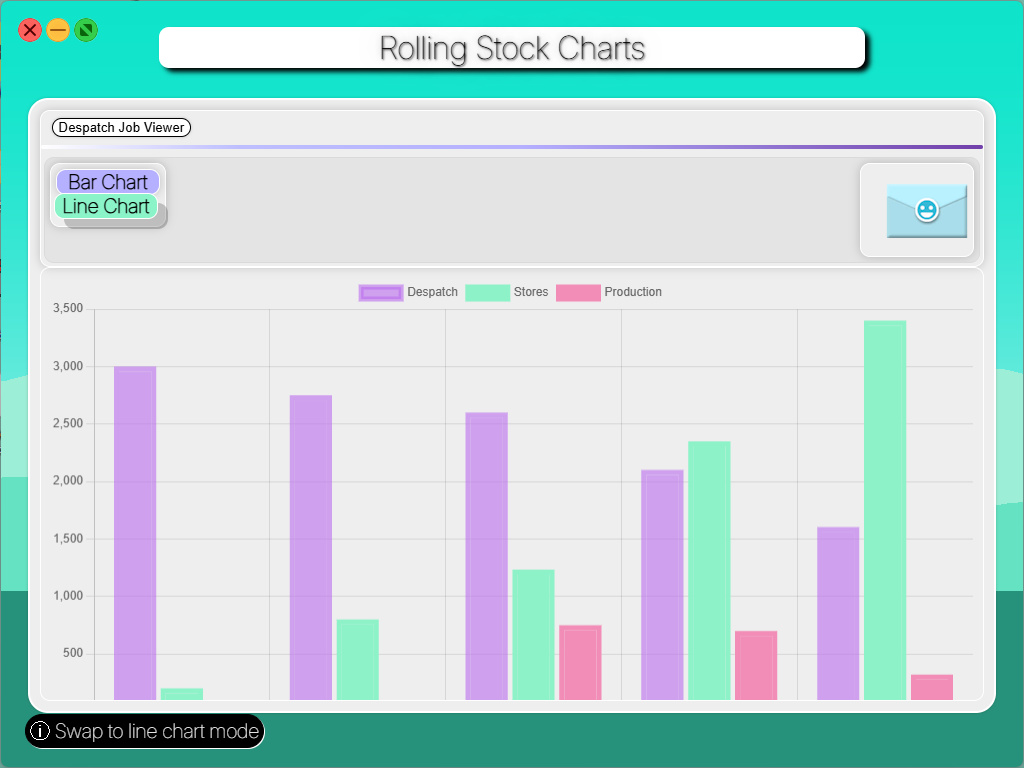
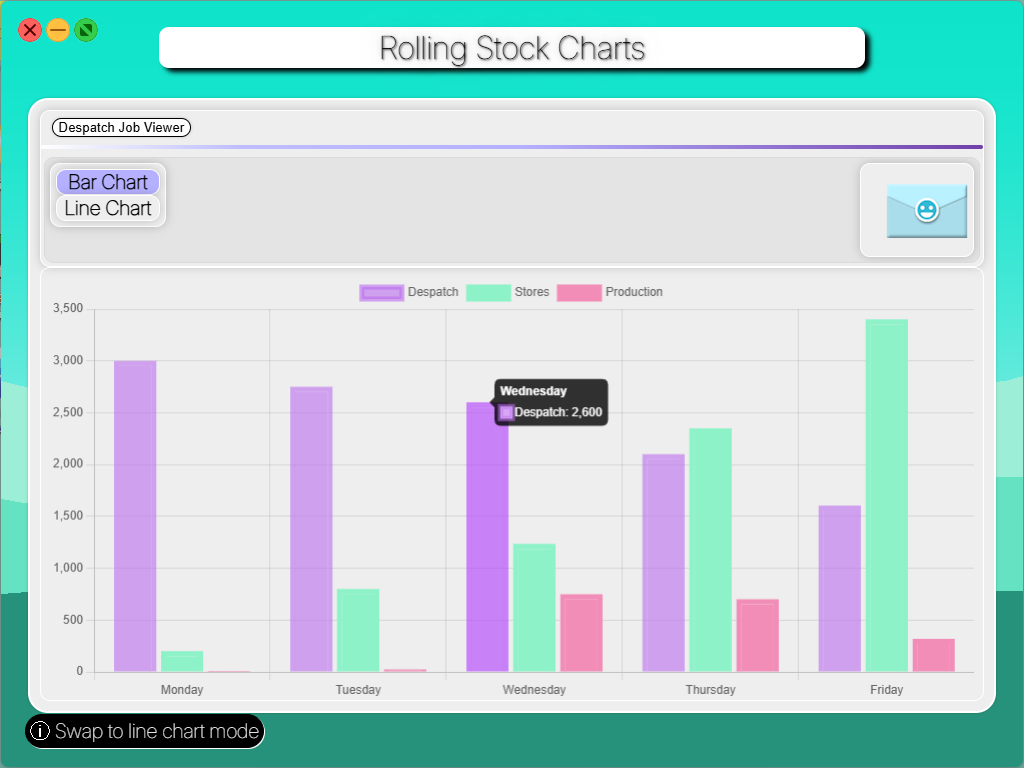
//Update

diff --git a/preload.js b/preload.js
@@ -597,8 +597,7 @@ document.querySelectorAll(".chartDisplayButton").forEach(function(elem) {
 chartZone = document.getElementById('theCharts');
   const amazingChart = new Chart(chartZone, {
     type: 'bar',
-    maintainAspectRatio: false,
-    aspectRatio: 2,
+    barPercentage: 1,
     data: {
       labels: ['Monday', 'Tuesday', 'Wednesday', 'Thursday', 'Friday'],
       datasets: [{
@@ -668,7 +667,9 @@ chartZone = document.getElementById('theCharts');
         y: {
           beginAtZero: true
         }
-      }
+      },
+      maintainAspectRatio: false,
+          responsive: true,
     }
   });
   helper.addEventListener("click", () =>{
@@ -676,7 +677,6 @@ chartZone = document.getElementById('theCharts');
   const chart2 = new Chart(chartZone, {
     type: 'line',
     maintainAspectRatio: false,
-    aspectRatio: 2,
     data: {
       labels: ['Monday', 'Tuesday', 'Wednesday', 'Thursday', 'Friday'],
       datasets: [{

diff --git a/rollingStock.html b/rollingStock.html
@@ -194,6 +194,9 @@ const sandbox = new GlslCanvas(canvas);
   transition: all 0.6s;
   
 }
+#chartWrapper{
+  min-height: 55vh;
+}
 .chartDisplayButton:hover{
   translate: -2px -2px;
   box-shadow: 10px 10px 0px #00000033;
